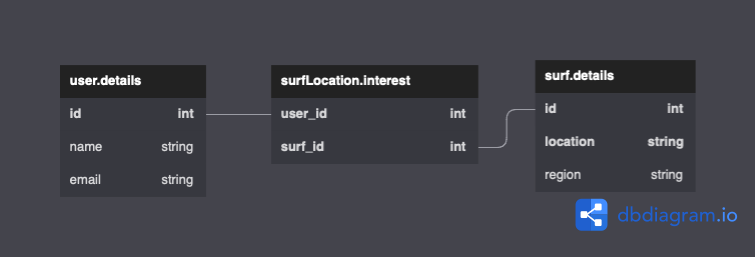
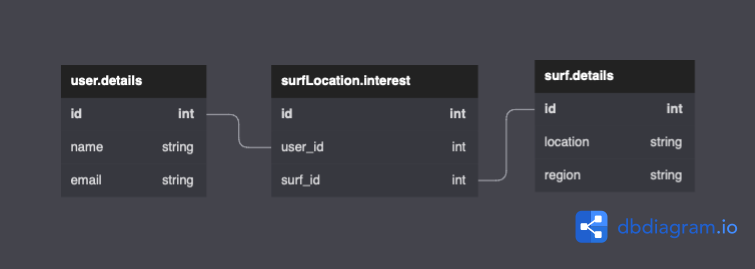
21: Updated documentation
A new image was added which has the updated design.

diff --git a/Documentation/Database/Database-design.md b/Documentation/Database/Database-design.md
@@ -39,4 +39,6 @@ use an integer id.
 ### Surf Location Interest Table
 This links the surfer to the location they are interested in. The table
 will keep on adding entries as more users/locations of interest are added.
+An id is used as the primary key. This is so the id can be used to grab the
+user_id and surf_id so the information from the other tables can be accessed.
 
